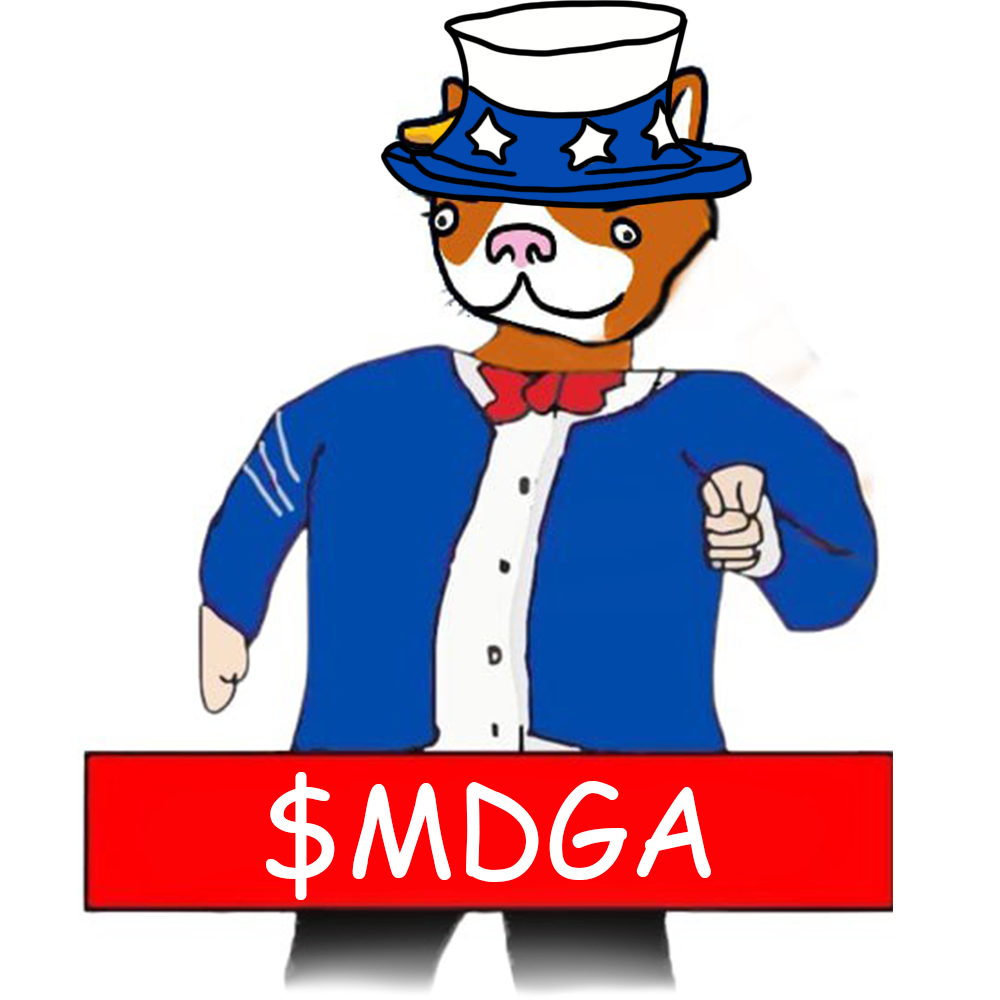
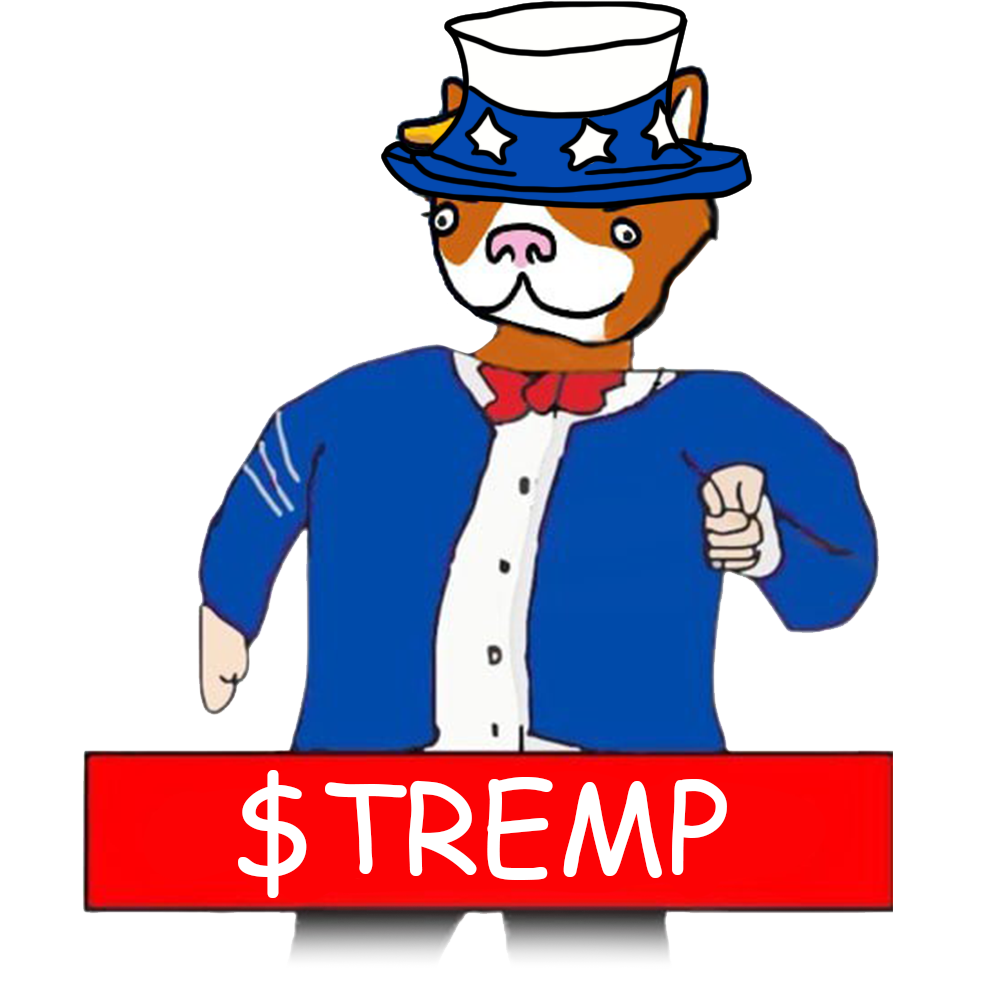
fdf

diff --git a/index.html b/index.html
@@ -36,7 +36,7 @@
           <img alt="logo" src="_next/static/media/logo.ae19716a.png"><span class="text-[36px] text-white logo hidden lg:block">Tremp Dog</span>
         </div>
         <div class="hidden lg:flex items-center gap-8 lg:gap-12">
-          <a class="nav-item" href="#about">About</a><a class="nav-item" href="#howtobuy">How to buy</a><a class="nav-item" href="#memes">Memes</a><a target="_blank" class="buy_button flex items-center justify-center nav-item" href="https://birdeye.so/token/0x000000000000000000000000000?chain=solana">$MDGA</a>
+          <a class="nav-item" href="#about">About</a><a class="nav-item" href="#howtobuy">How to buy</a><a class="nav-item" href="#memes">Memes</a><a target="_blank" class="buy_button flex items-center justify-center nav-item" href="https://birdeye.so/token/0x000000000000000000000000000?chain=solana">$TREMP</a>
         </div>
         <button class="block lg:hidden menu">Menu</button>
       </div>
@@ -55,7 +55,7 @@
           <img alt="logo" src="_next/static/media/l_logo.e6bdfc58.png" class="absolute hidden lg:block w-[160px] lg:w-auto lg:-top-10 right-0 lg:right-[2rem]">
         </div>
         <div class="flex flex-col lg:flex-row items-center gap-5 lg:gap-14">
-          <a target="_blank" class="flex items-center gap-3" href="https://t.me/trempdog"><img alt="telegram" src="_next/static/media/telegram.925c8836.png" width="41"><span class="social-text">telegram</span></a><a target="_blank" class="flex items-center gap-3" href="https://birdeye.so/token/0x000000000000000000000000000?chain=solana"><img alt="chart" src="_next/static/media/chart.025ee953.png" width="41"><span class="social-text">chart</span></a><a target="_blank" class="flex items-center gap-3" href="https://twitter.com/trempdogsol"><img alt="twitter" src="_next/static/media/x.cae2ecb8.png" width="41"><span class="social-text">twitter</span></a>
+          <a target="_blank" class="flex items-center gap-3" href="https://t.me/DogTremp"><img alt="telegram" src="_next/static/media/telegram.925c8836.png" width="41"><span class="social-text">telegram</span></a><a target="_blank" class="flex items-center gap-3" href="https://birdeye.so/token/0x000000000000000000000000000?chain=solana"><img alt="chart" src="_next/static/media/chart.025ee953.png" width="41"><span class="social-text">chart</span></a><a target="_blank" class="flex items-center gap-3" href="https://x.com/DogTremp"><img alt="twitter" src="_next/static/media/x.cae2ecb8.png" width="41"><span class="social-text">twitter</span></a>
         </div>
         <div class="flex items-center justify-center flex-wrap code px-5 w-[354px] lg:w-[565px]">
           CA: 0x000000000000000000000000000
@@ -70,14 +70,14 @@
             <div class="about-text">about</div>
             <div class="flex flex-col gap-5 px-5">
               <div class="about-des">
-                $MDGA iz her to mek Dogs gret agen. We sempli tek ze throne
+                $TREMP iz her to mek Dogs gret agen. We sempli tek ze throne
                 vack to ze dogs nd rule da space.
               </div>
               <div class="about-des">
-                It supports the vision to mek memes gret agen. $MDGA iz here
+                It supports the vision to mek memes gret agen. $TREMP iz here
                 to unite al ze Solanu memes än being ze dog of doland tremp. Mak
                 sur tö kast yur vote for Tremp 2025 n dont porget to tek
-                piktchurs wit ze dog $MDGA.
+                piktchurs wit ze dog $TREMP.
               </div>
             </div>
           </div>
@@ -100,7 +100,7 @@
             <div class="flex flex-col gap-3">
               <div class="title">Get Some SOL</div>
               <div class="des">
-                Have SOL in your wallet to switch to $MDGA. If you don’t
+                Have SOL in your wallet to switch to $TREMP. If you don’t
                 have any SOL, you can buy directly on Phantom, transfer from
                 another wallet, or buy on another exchange and send it to your
                 wallet.
@@ -111,14 +111,14 @@
               <div class="des">
                 Connect to Raydium. Go to Raydium in google chrome or on the
                 browser inside your Phantom app. Connect your wallet. Paste the
-                $MDGA token address into Raydium, select $MDGA, and
+                $TREMP token address into Raydium, select $TREMP, and
                 confirm. When Phantom prompts you for a wallet signature, sign.
               </div>
             </div>
             <div class="flex flex-col gap-3">
               <div class="title">TREMPDOG</div>
               <div class="des">
-                Switch SOL for $MDGA. We have Zero taxes so you don’t need
+                Switch SOL for $TREMP. We have Zero taxes so you don’t need
                 to worry about buying with a specific slippage, although you may
               </div>
             </div>
@@ -138,19 +138,10 @@
       <div class="bg-[#0149ab] py-10 lg:h-[210px] max-w-[1280px] mx-auto w-full grid grid-cols-1 lg:grid-cols-2 items-center justify-center lg:justify-between">
         <a class="flex items-center justify-center lg:justify-start gap-4" href="index.htm"><img alt="logo" src="_next/static/media/logo.ae19716a.png"><span class="text-[36px] text-white logo">Tremp Dog</span></a>
         <div class="flex flex-col lg:flex-row items-center gap-5 lg:gap-14">
-          <a target="_blank" class="flex items-center gap-3" href="https://t.me/trempdog"><img alt="telegram" src="_next/static/media/telegram.925c8836.png" width="41"><span class="social-text">telegram</span></a><a target="_blank" class="flex items-center gap-3" href="https://birdeye.so/token/0x000000000000000000000000000?chain=solana"><img alt="chart" src="_next/static/media/chart.025ee953.png" width="41"><span class="social-text">chart</span></a><a target="_blank" class="flex items-center gap-3" href="https://twitter.com/trempdogsol"><img alt="twitter" src="_next/static/media/x.cae2ecb8.png" width="41"><span class="social-text">twitter</span></a>
+          <a target="_blank" class="flex items-center gap-3" href="https://t.me/DogTremp"><img alt="telegram" src="_next/static/media/telegram.925c8836.png" width="41"><span class="social-text">telegram</span></a><a target="_blank" class="flex items-center gap-3" href="https://birdeye.so/token/0x000000000000000000000000000?chain=solana"><img alt="chart" src="_next/static/media/chart.025ee953.png" width="41"><span class="social-text">chart</span></a><a target="_blank" class="flex items-center gap-3" href="https://x.com/DogTremp"><img alt="twitter" src="_next/static/media/x.cae2ecb8.png" width="41"><span class="social-text">twitter</span></a>
         </div>
       </div>
-      <div class="footer flex flex-col gap-7 px-5 lg:px-0 items-center justify-center w-full">
-        <div class="text">
-          $MDGA has no association with Donald Trump or Squid Game. This
-          token is simply a meme <br>coin with no intrinsic value or
-          expectation of financial return.
-        </div>
-        <div class="text">
-          © 2025 by Tremp Dog $MDGA. All rights reserved.
-        </div>
-      </div>
+
     </div>
     <script src="_next/static/chunks/webpack-a24789c688dacde4.js" crossorigin="" async=""></script>
     <script>
